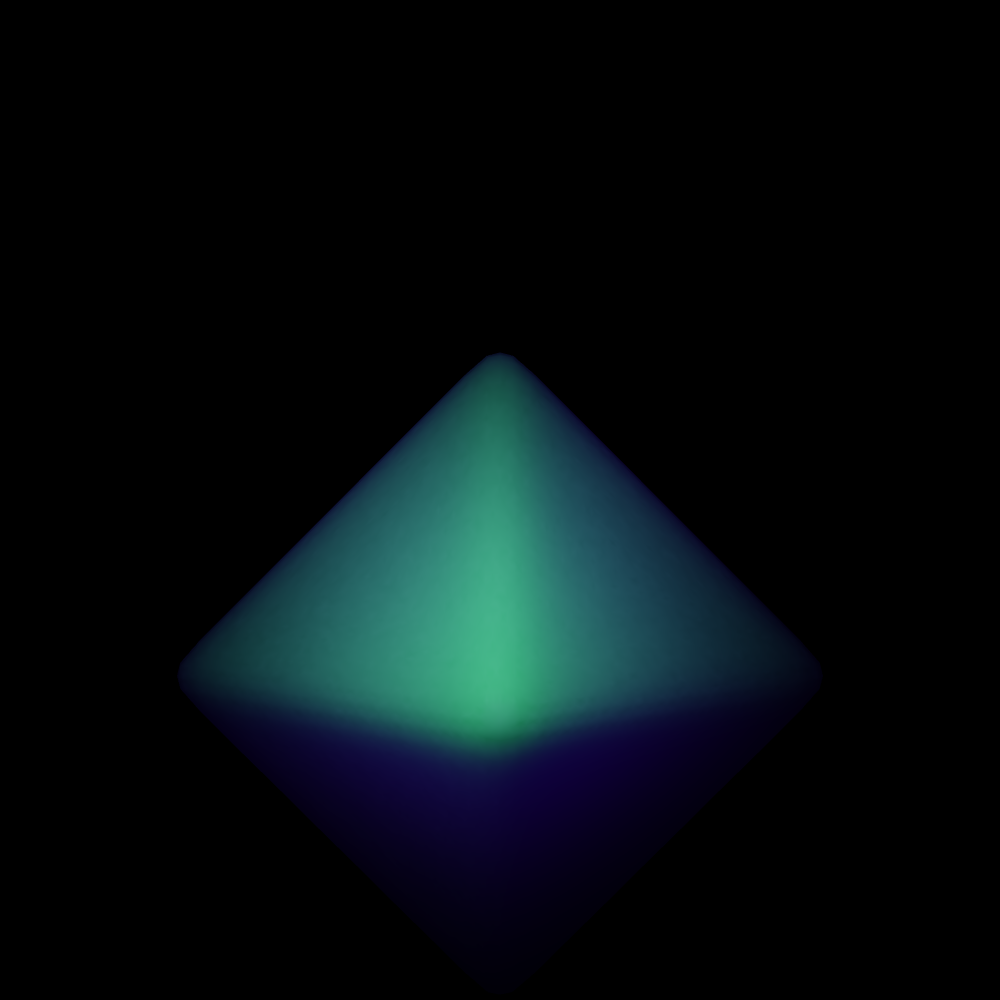
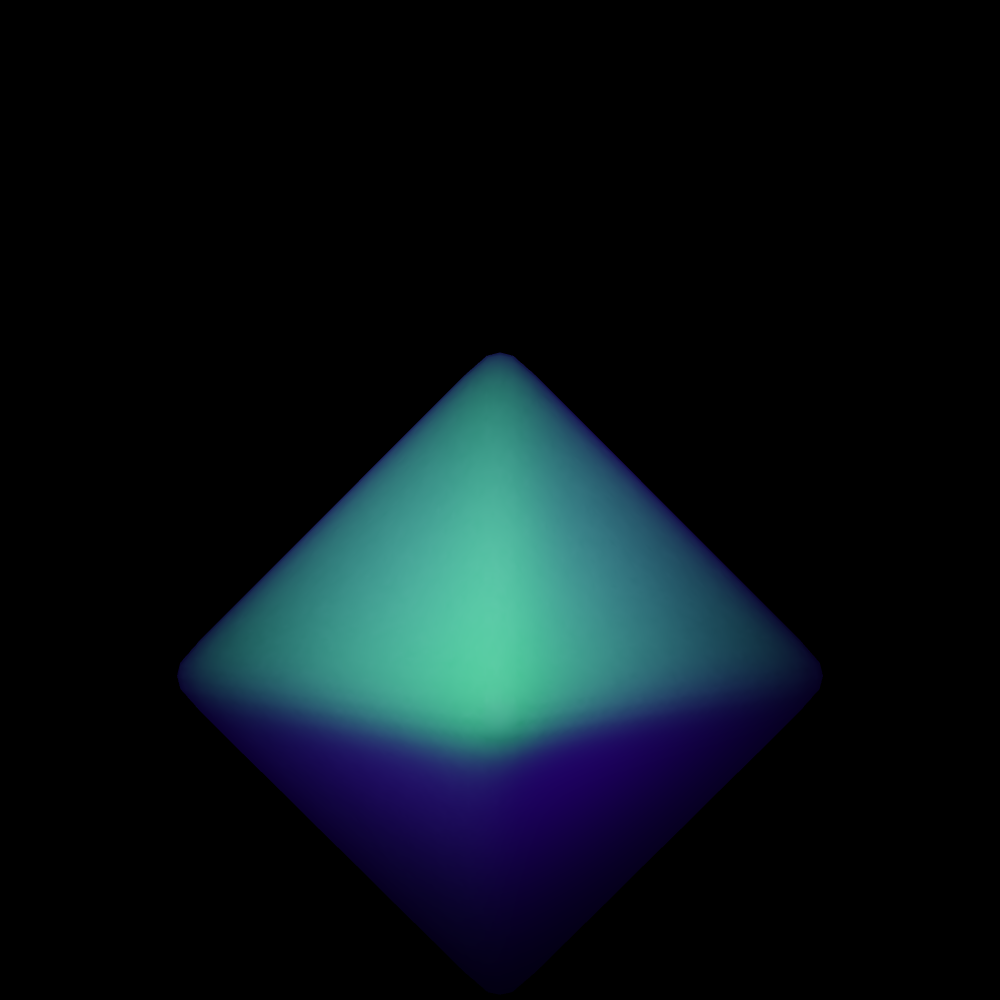
fix surface area weighting && add face culling

Changed region(s): [[0.155, 0.341, 0.806, 0.899]]

diff --git a/src/main.py b/src/main.py
@@ -84,7 +84,6 @@ accel: luisa.Accel = luisa.Accel()
 vbo: moderngl.Buffer = None
 nbo: moderngl.Buffer = None
 ibo: moderngl.Buffer = None
-surface_area: float = 0
 sigma_a: float3 = make_float3(1.0)
 sigma_s: float3 = make_float3(1.0)
 eta: float = 1.0
@@ -127,21 +126,23 @@ def parse_scene(filename: str):
             index.vertex_index for shape in reader.GetShapes() for index in shape.mesh.indices
         ])
         # calculate total surface area of the model
-        global surface_area
-        for i in range(len(triangle_array) // 3):
+        # also the wrongly wired triangles are re-sorted in this part to support face culling
+        surface_areas = np.zeros((model_vertex_count, 1), dtype=np.float32)
+        for i in range(0, len(triangle_array), 3):
             i0, i1, i2 = triangle_array[i:i+3]
             p0, p1, p2 = map(lambda x: vertex_array[x], (i0, i1, i2))
+            local_normal = np.cross(p1 - p0, p2 - p0)
+            average_normal = normal_array[i0] + normal_array[i1] + normal_array[i2]
+            if np.dot(local_normal, average_normal) < 0:
+                triangle_array[i], triangle_array[i + 1] = triangle_array[i + 1], triangle_array[i]
             local_surface_area = np.linalg.norm(np.cross(p1 - p0, p2 - p0)) * 0.5
-            if local_surface_area == 0.0:
-                continue
-            local_normal = np.cross((p1 - p0) / np.linalg.norm(p1 - p0), (p2 - p0) / np.linalg.norm(p2 - p0))
-            local_normal /= np.linalg.norm(local_normal)
-            surface_area +=\
-                local_surface_area / 3 * sum(max(np.dot(normal_array[x], local_normal), 0.0) for x in (i0, i1, i2))
+            surface_areas[i0] += local_surface_area / 3
+            surface_areas[i1] += local_surface_area / 3
+            surface_areas[i2] += local_surface_area / 3
         triangle_arrays.append(triangle_array)
         # upload vertex array and normal array to GL
         global vbo, ibo, nbo
-        vbo = ctx.buffer(np.hstack((vertex_array, np.zeros((vertex_array.shape[0], 1), dtype=np.float32))))
+        vbo = ctx.buffer(np.hstack((vertex_array, surface_areas)))
         ibo = ctx.buffer(triangle_array.astype(np.int32))
         nbo = ctx.buffer(np.hstack((normal_array, np.zeros((normal_array.shape[0], 1), dtype=np.float32))))
         # parse and upload light information
@@ -393,16 +394,15 @@ def main():
                         r = max(0.02, r);
                         vec3 a = exp(-r / (3.0 * dmfp));
                         a = (a + a * a * a) / (8.0 * 3.1415926 * dmfp * r);
-                        acc += influx[i].rgb * a;
+                        acc += influx[i].rgb * a * vertex[i].w;
                     }
-                    acc *= albedo * surface_area / (vertex_count * 3.1415926) * transmittance;
+                    acc *= albedo * transmittance;
                     efflux[vertex_index] = vec4(acc, 1.0);
                 }
             """
             .replace("vertex_count", f"{model_vertex_count}")
             .replace("dmfp", f"vec3({parameters.dmfp.x}, {parameters.dmfp.y}, {parameters.dmfp.z})")
             .replace("albedo", f"vec3({parameters.albedo.x}, {parameters.albedo.y}, {parameters.albedo.z})")
-            .replace("surface_area", f"{surface_area}")
             .replace("transmittance", f"{parameters.transmittance}")
         )
     elif equation == Equation.Dipole:
@@ -440,7 +440,7 @@ def main():
                                 zv * (sigma_tr * dv + 1.0) * exp(-sigma_tr * dv) / (dv * dv * dv)
                             );
                         weight = any(isnan(weight)) ? vec3(0.0) : weight;
-                        acc += influx[i].rgb * weight * surface_area / float(vertex_count * 3.1415926);
+                        acc += influx[i].rgb * weight * vertex[i].w;
                     }
                     acc *= transmittance;
                     efflux[vertex_index] = vec4(acc, 1.0);
@@ -450,7 +450,6 @@ def main():
             .replace("sigma_tr", f"vec3({parameters.sigma_tr.x}, {parameters.sigma_tr.y}, {parameters.sigma_tr.z})")
             .replace("zr", f"vec3({parameters.zr.x}, {parameters.zr.y}, {parameters.zr.z})")
             .replace("zv", f"vec3({parameters.zv.x}, {parameters.zv.y}, {parameters.zv.z})")
-            .replace("surface_area", f"{surface_area}")
             .replace("albedo", f"vec3({albedo.x}, {albedo.y}, {albedo.z})")
             .replace("transmittance", f"{parameters.transmittance}")
         )
@@ -473,7 +472,7 @@ def main():
     render_target_msaa = ctx.texture(res, 4, samples=4, dtype='f4')
     fbo_msaa = ctx.framebuffer(color_attachments=[render_target_msaa],
                                depth_attachment=ctx.depth_renderbuffer(res, samples=4))
-    with ctx.scope(fbo_msaa, moderngl.DEPTH_TEST):
+    with ctx.scope(fbo_msaa, moderngl.DEPTH_TEST | moderngl.CULL_FACE):
         fbo_msaa.clear(alpha=1.0)
         vao.render()
     render_target = ctx.texture(res, 4, dtype='f4')
